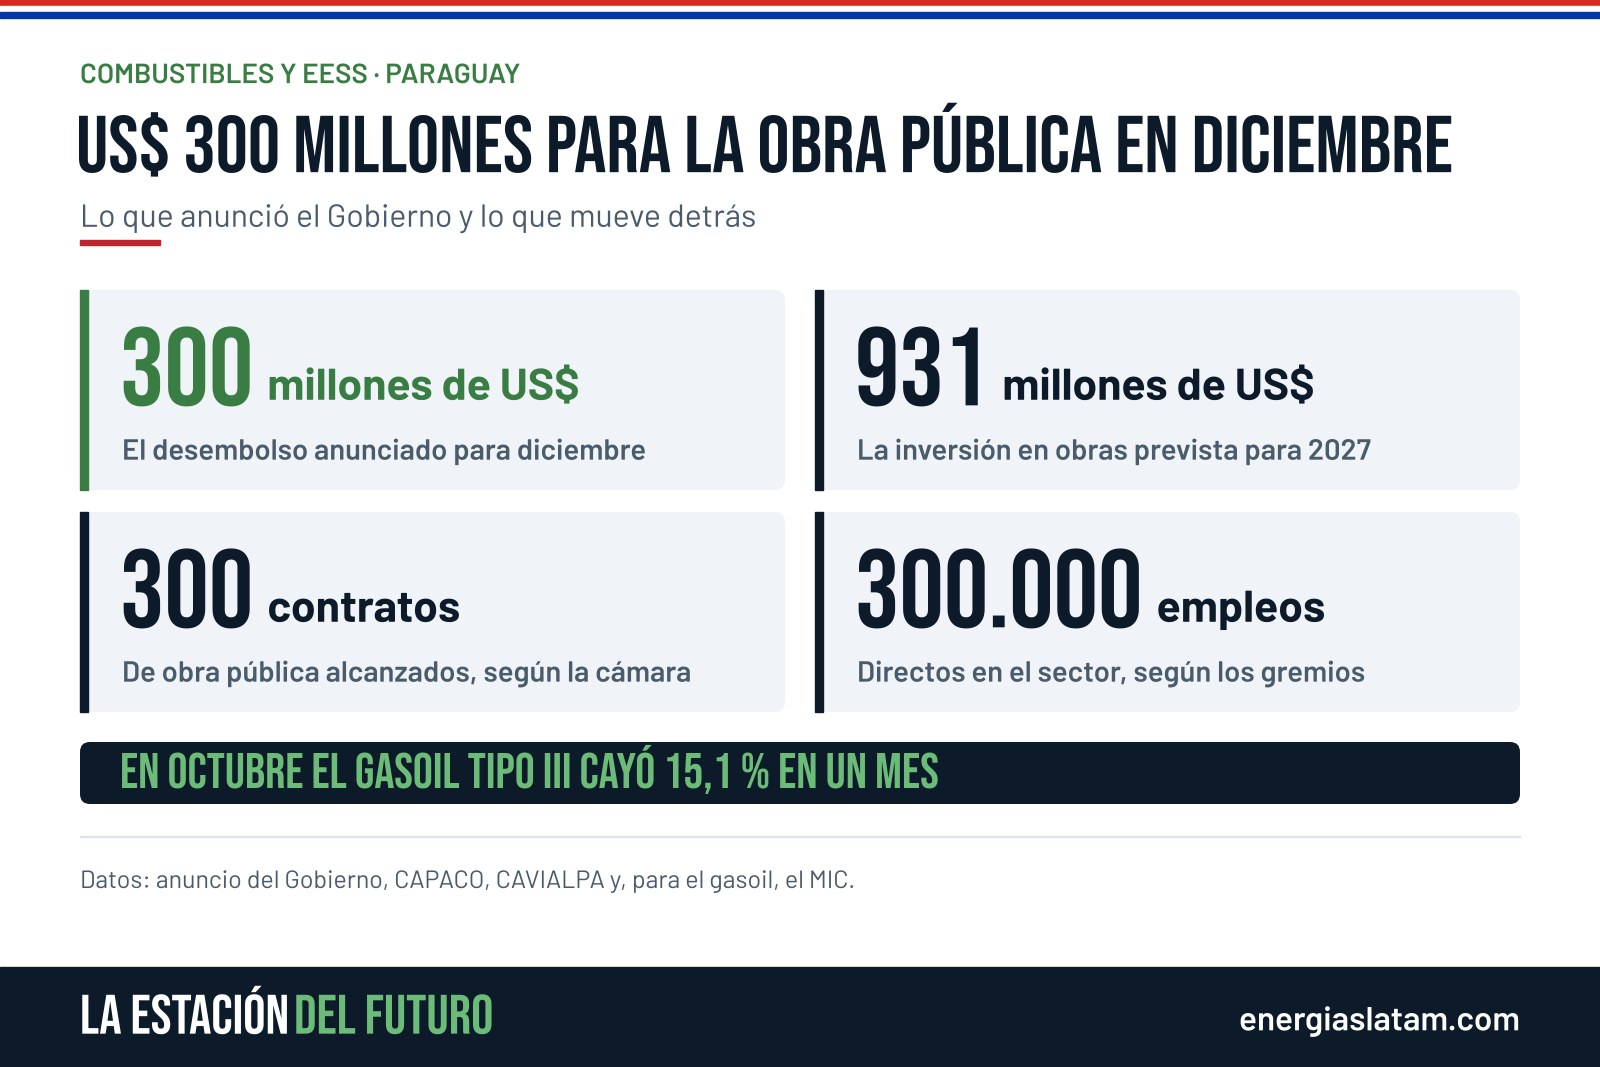
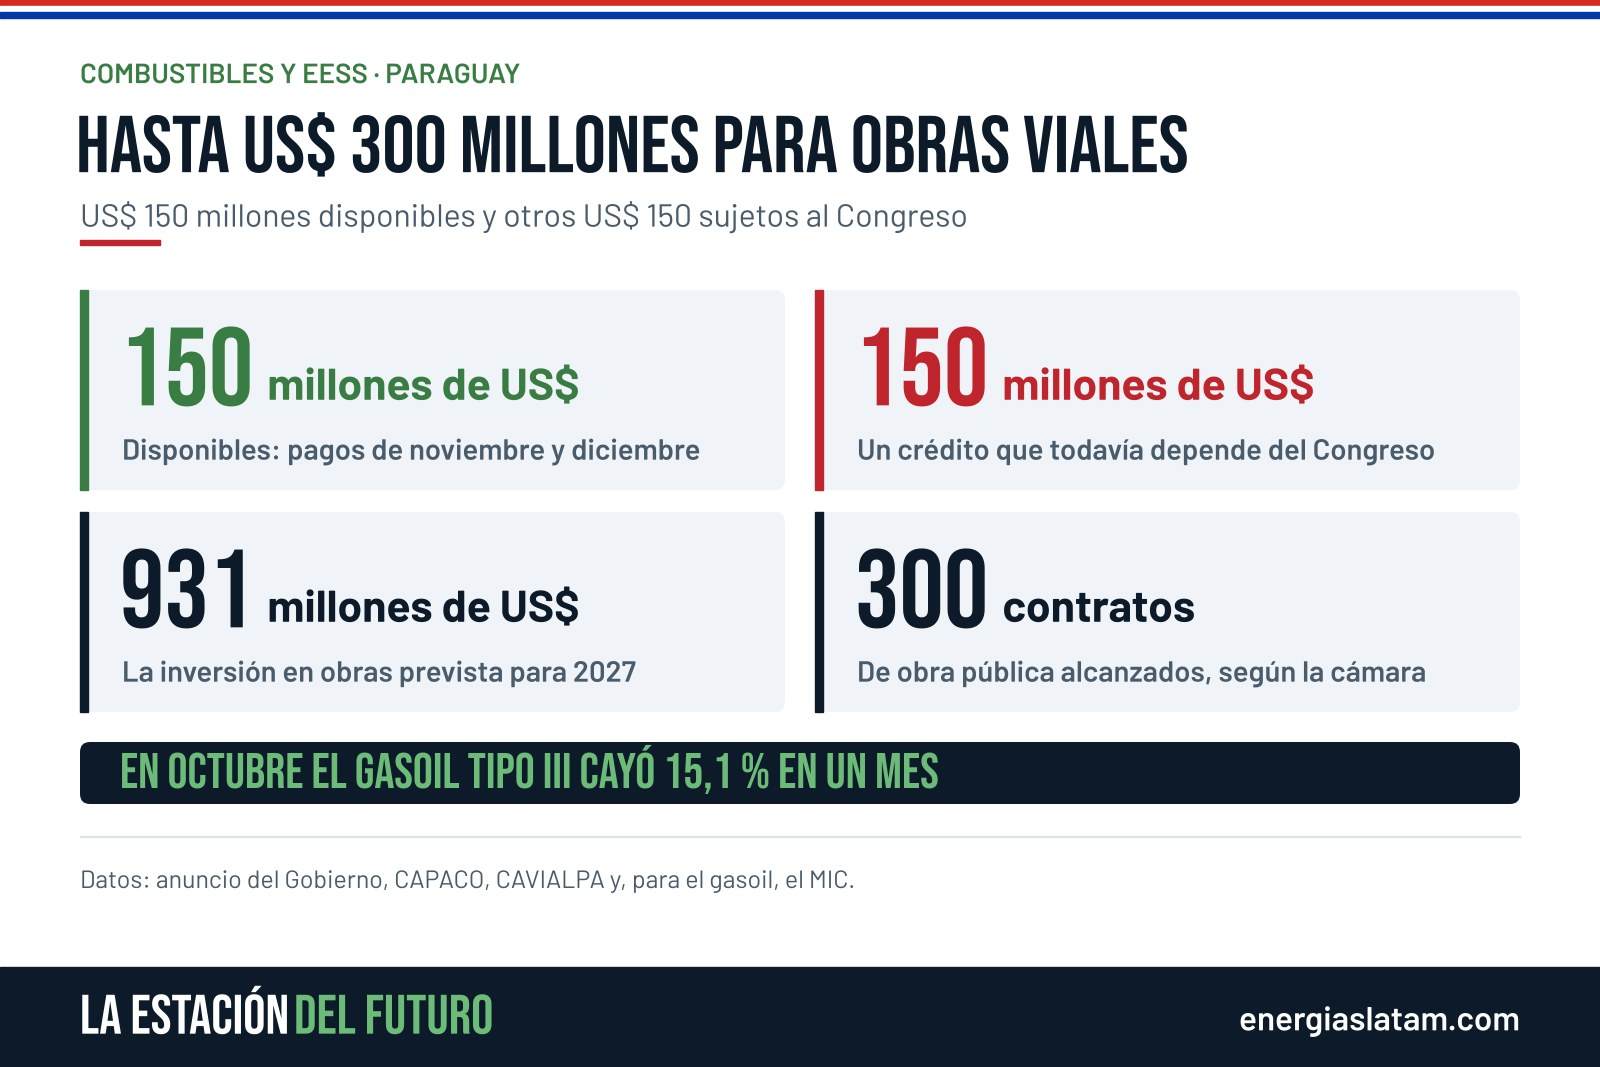
Obra publica: 'hasta US$ 300 millones' y gasoil en condicional
Claude-Session: https://claude.ai/code/session_01HHGRFrapr8AXyd2C4Baz1m

diff --git a/notas/2026-11-26-300-millones-obras-publicas-diciembre-estaciones.html b/notas/2026-11-26-300-millones-obras-publicas-diciembre-estaciones.html
@@ -1,10 +1,10 @@
 <figure><img src="img/2026-11-26-300-millones-obras-publicas-diciembre-estaciones-1.jpg" alt="El anuncio del Gobierno para obras públicas: US$ 300 millones en diciembre, US$ 931 millones previstos para 2027, más de 300 contratos y unos 300.000 empleos directos"><figcaption>El anuncio del Gobierno para la obra pública, en cuatro números.</figcaption></figure>
 
-<p>El Gobierno anunció que en diciembre va a desembolsar <b>US$ 300 millones</b> para el sector de la construcción. Es plata para pagar obras ya hechas y destrabar las que están frenadas. Para una estación de servicio, eso se traduce en dos cosas: máquinas que vuelven a cargar gasoil y rutas que se arreglan.</p>
+<p>El Gobierno anunció <b>hasta US$ 300 millones</b> para las obras viales en diciembre. La mitad está disponible: son US$ 150 millones del Tesoro. Los otros US$ 150 millones dependen de que el Congreso apruebe un crédito. Es plata para pagar obras ya hechas y destrabar las que están frenadas; para una estación, se traduce en máquinas que vuelven a cargar gasoil y rutas que se arreglan.</p>
 
 <p>El anuncio lo hizo el presidente Pedro Alliana en el Palacio de Gobierno, junto al ministro de Obras Públicas y Comunicaciones, Juan Carlos Baruja, y al ministro de Economía y Finanzas, Óscar Lovera.</p>
 
-<div class="datos"><div><b>US$ 300 millones</b><span>El desembolso anunciado para el sector de la construcción en diciembre</span></div><div><b>US$ 931 millones</b><span>La inversión en obras prevista para 2027: US$ 361 millones más que este año</span></div><div><b>300 contratos</b><span>Los contratos de obra pública alcanzados, según la cámara de la construcción</span></div></div>
+<div class="datos"><div><b>US$ 300 millones</b><span>El monto anunciado para diciembre: la mitad disponible y la mitad sujeta al Congreso</span></div><div><b>US$ 931 millones</b><span>La inversión en obras prevista para 2027: US$ 361 millones más que este año</span></div><div><b>300 contratos</b><span>Los contratos de obra pública alcanzados, según la cámara de la construcción</span></div></div>
 
 <h2>De dónde sale la plata</h2>
 
@@ -26,7 +26,7 @@
 
 <p>Acá está el dato que le importa al surtidor. En octubre se vendieron en Paraguay 300,5 millones de litros de naftas y gasoil, 8,2 % menos que un año antes, y la caída la explicó el gasoil: el tipo III pasó de 156,7 a 133 millones de litros en un mes, un 15,1 % menos.</p>
 
-<p>Parte de esa caída es precio, porque octubre fue el mes de la última suba antes de la rebaja del impuesto. Pero una obra parada también es una flota de camiones y máquinas que deja de cargar. Si el pago destraba los contratos, ese consumo vuelve, y vuelve en gasoil.</p>
+<p>Los datos de octubre muestran la caída, pero no permiten saber cuánto se debió a obras paradas: octubre fue también el mes de la última suba, antes de la rebaja del impuesto. Lo que sí se puede decir es lo otro: si los pagos permiten retomar obras, las estaciones cercanas podrían recuperar ventas a las flotas.</p>
 
 <h2>Qué significa para la estación</h2>
 

diff --git a/herramientas/ob26.py b/herramientas/ob26.py
@@ -44,11 +44,11 @@ def num(fig,ax,x,y,big,uni,fs,col,ufs=None,dy=8):
 
 
 
-fig,ax=hdr('COMBUSTIBLES Y EESS · PARAGUAY','US$ 300 MILLONES PARA LA OBRA PÚBLICA EN DICIEMBRE','Lo que anunció el Gobierno y lo que mueve detrás')
-tiles=[('300','millones de US$','El desembolso anunciado para diciembre',GR),
+fig,ax=hdr('COMBUSTIBLES Y EESS · PARAGUAY','HASTA US$ 300 MILLONES PARA OBRAS VIALES','US$ 150 millones disponibles y otros US$ 150 sujetos al Congreso')
+tiles=[('150','millones de US$','Disponibles: pagos de noviembre y diciembre',GR),
+       ('150','millones de US$','Un crédito que todavía depende del Congreso',RD),
        ('931','millones de US$','La inversión en obras prevista para 2027',NV),
-       ('300','contratos','De obra pública alcanzados, según la cámara',NV),
-       ('300.000','empleos','Directos en el sector, según los gremios',NV)]
+       ('300','contratos','De obra pública alcanzados, según la cámara',NV)]
 for i,(big,uni,sub,col) in enumerate(tiles):
     x=80+(i%2)*735; y=290+(i//2)*222
     rb(ax,x,y,705,200,SO,10); ax.add_patch(Rectangle((x,y),8,200,color=col))

diff --git a/herramientas/ob26_carr.py b/herramientas/ob26_carr.py
@@ -44,10 +44,10 @@ def save(fig,k):
 
 
 fig,ax=base(1,'LA ESTACIÓN DEL FUTURO · PARAGUAY')
-for i,(l,c2,sz) in enumerate([('US$ 300',W,150),('MILLONES PARA',W,112),('LA OBRA PÚBLICA',G,112)]):
+for i,(l,c2,sz) in enumerate([('HASTA US$ 300',W,128),('MILLONES PARA',W,128),('OBRAS VIALES',G,128)]):
     ax.text(66,300+i*150,l,fontfamily=BB,fontsize=sz,color=c2,va='center')
 ax.add_patch(Rectangle((70,740),140,7,color=G))
-for i,l in enumerate(['El Gobierno los desembolsa','en diciembre.']):
+for i,l in enumerate(['US$ 150 millones disponibles.','Otros US$ 150 dependen del Congreso.']):
     ax.text(70,820+i*54,l,fontfamily=B,fontweight='semibold',fontsize=38,color=W,va='center')
 ax.text(70,1000,'¿Qué gana una estación de servicio?',fontfamily=B,fontsize=30,color=M,va='center')
 save(fig,1)
